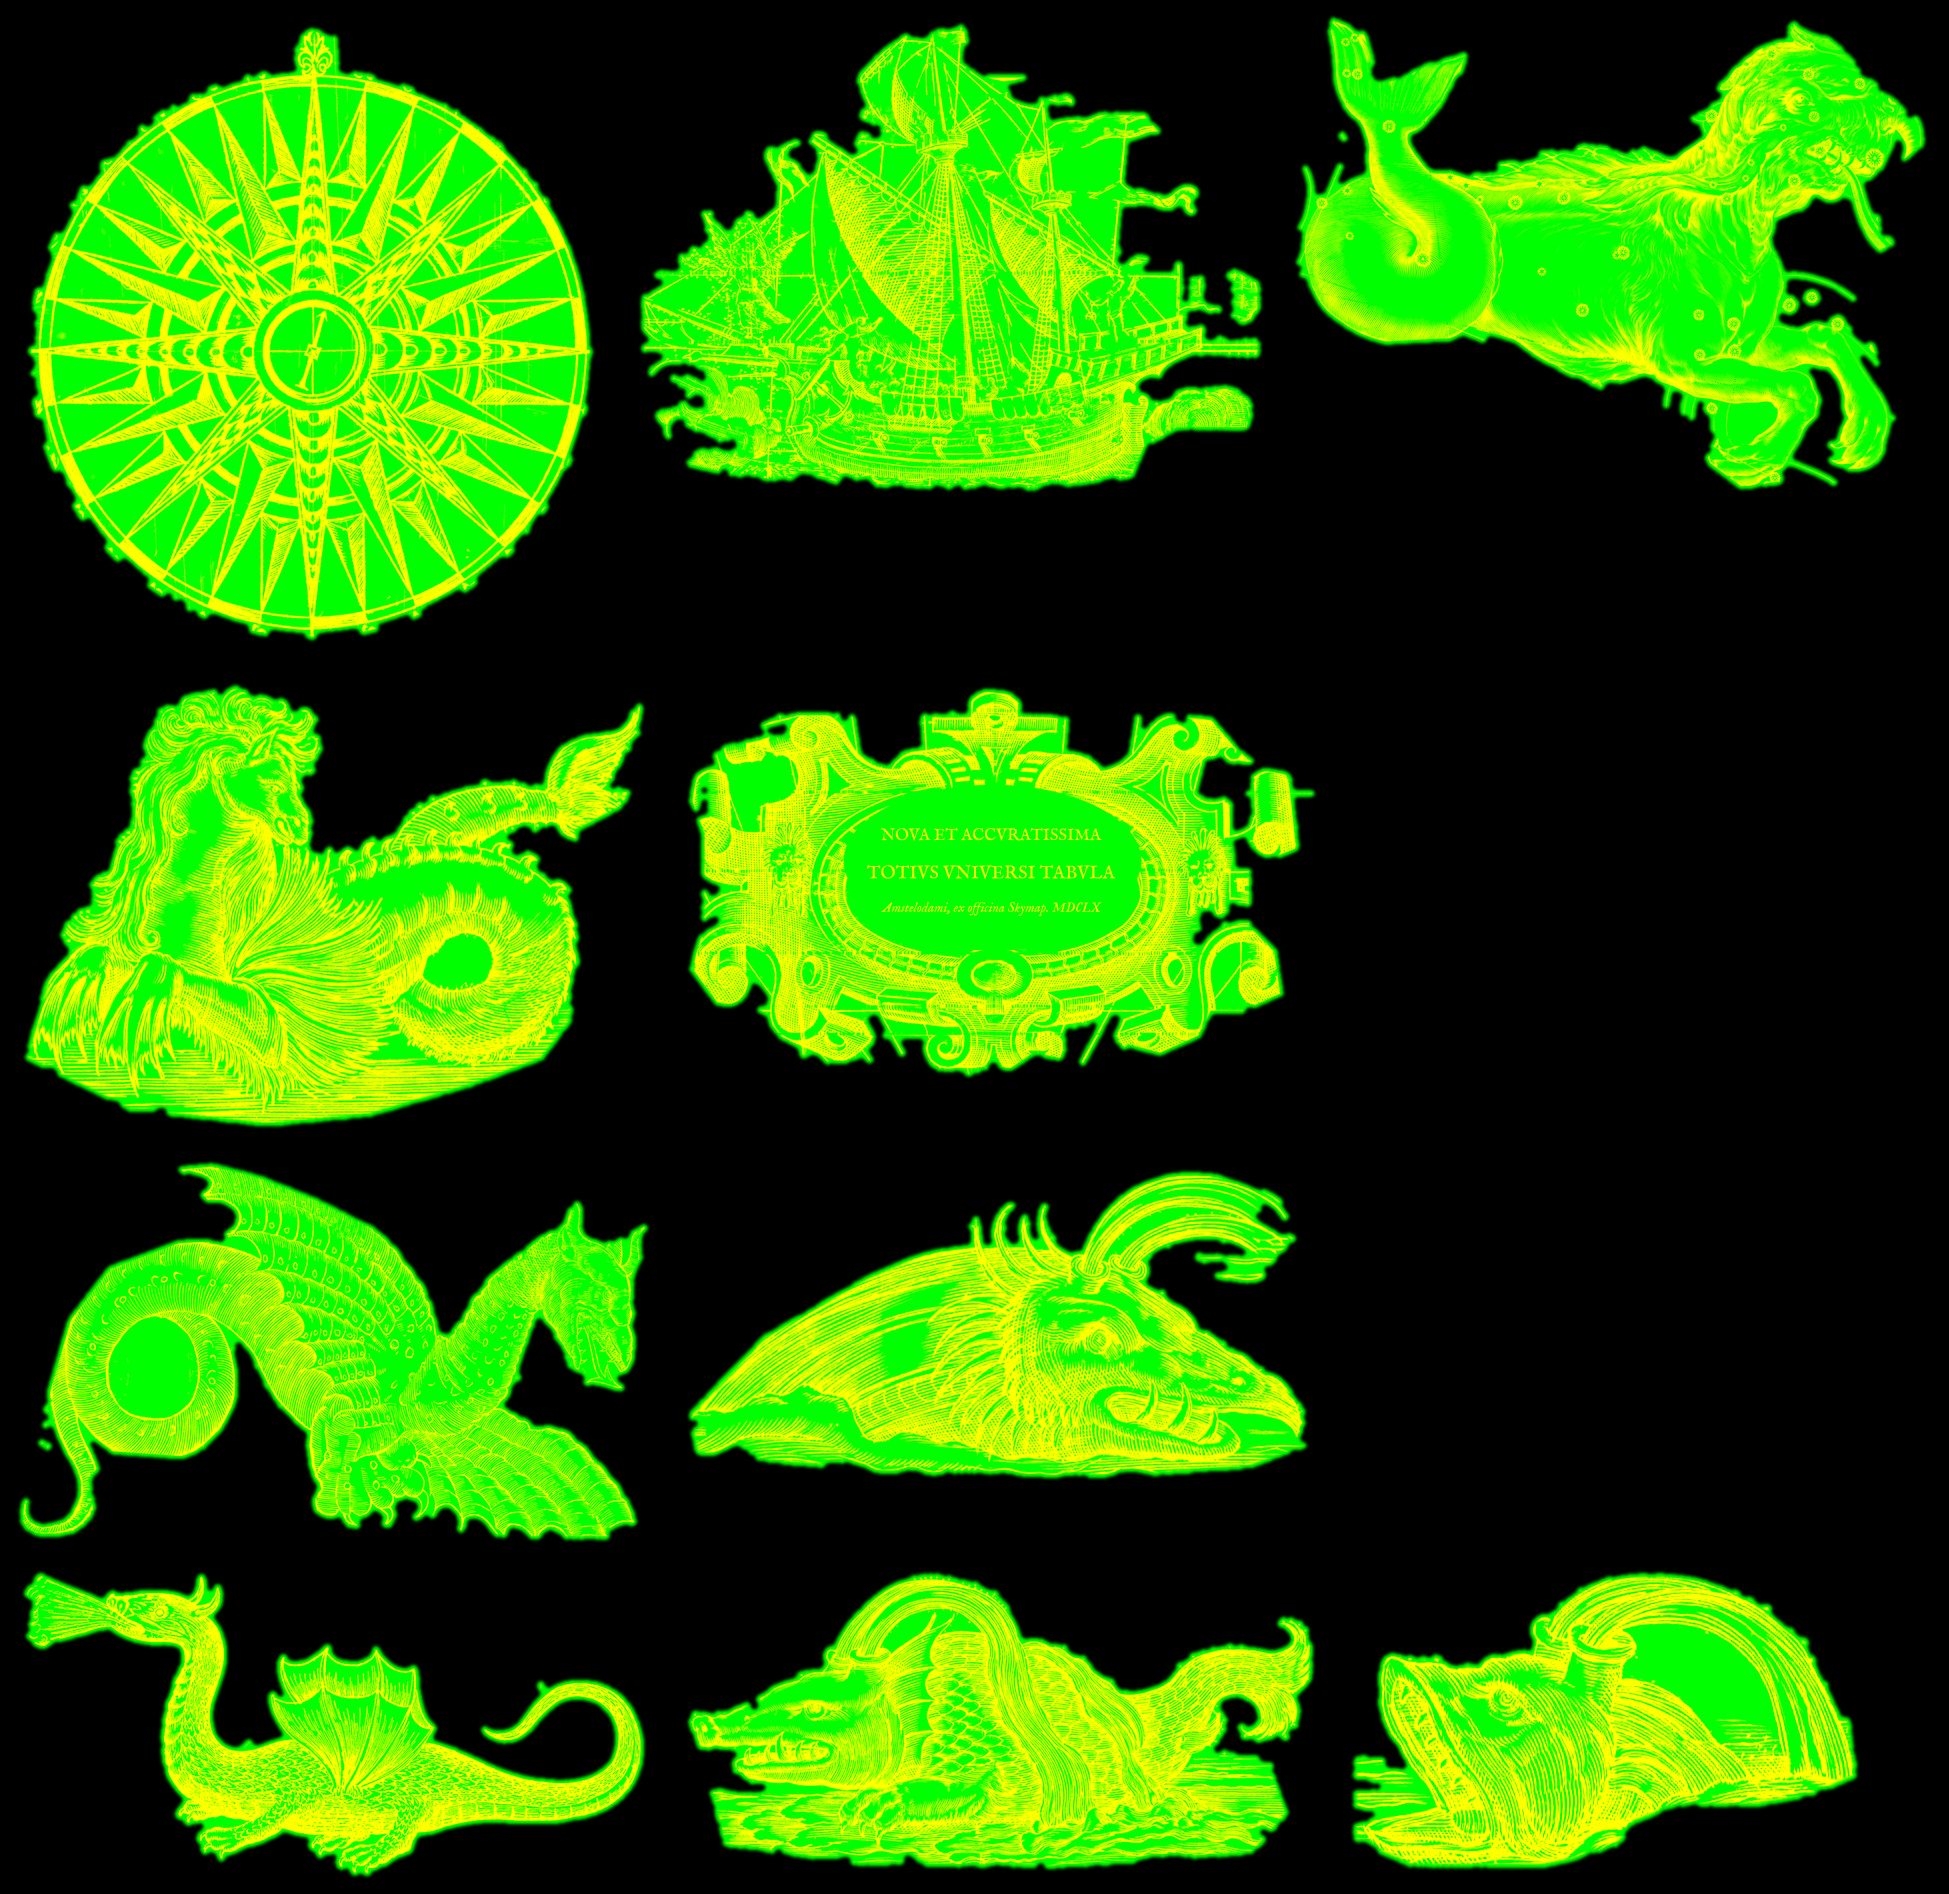
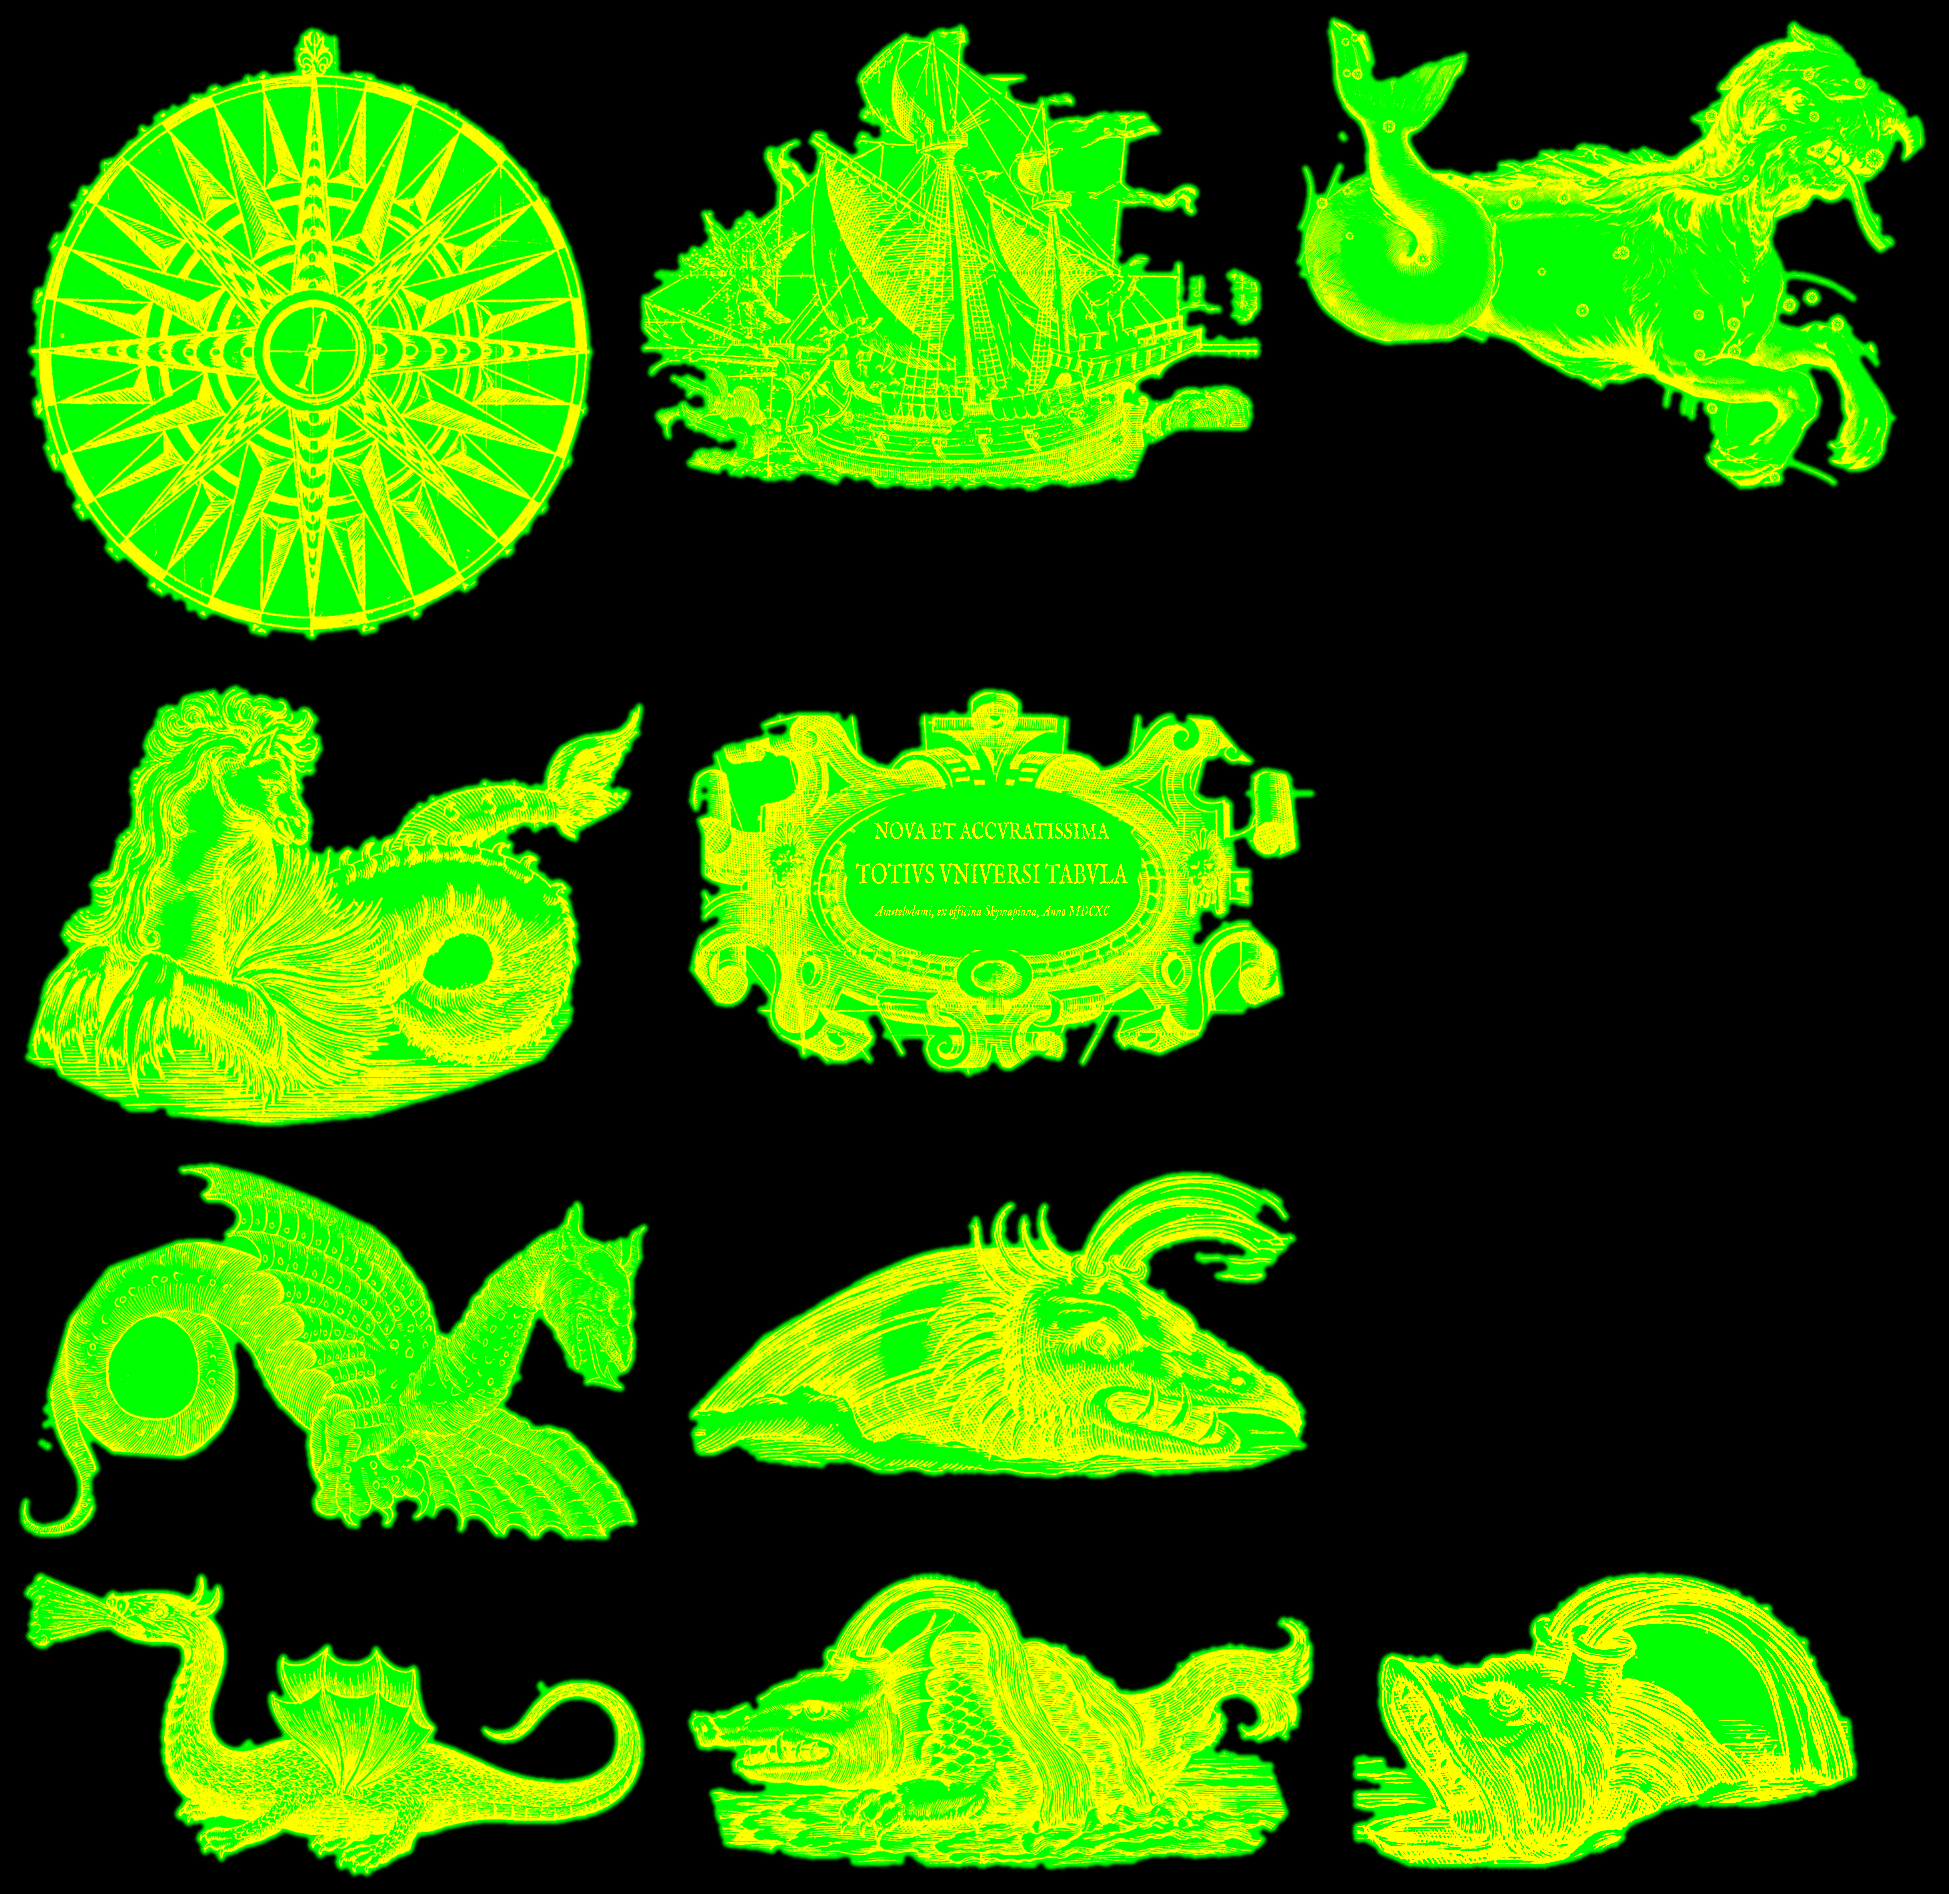
Antique look: fuller, crisper cartouche title and two-level ornament ink
The imprint now reads 'Amstelodami, ex officina Skymapiana, Anno MDCXC'
(1690, the year of the Hevelius Cetus). Title lines are sized by cap
height against the oval and condensed before they shrink, so the main
line's caps are ~1.5x taller; lettering is thresholded to pure ink.
Every sprite's ink gets a smoothstep(0.3, 0.65) push at source
resolution, before the downscale turns fine hatching into coverage
greys; the fill silhouette still reads the unpushed ink.

diff --git a/tools/antique/packOrnaments.ts b/tools/antique/packOrnaments.ts
@@ -16,6 +16,7 @@ import { fileURLToPath } from 'node:url';
 import { type Font, parse } from 'opentype.js';
 import sharp from 'sharp';
 
+import { smoothstep } from '../../src/utils/math/smoothstep';
 import type { GreyRaster } from '../@types/image/GreyRaster';
 import { closeMaskDisc } from '../utils/image/closeMaskDisc';
 import { dilateMaskDisc } from '../utils/image/dilateMaskDisc';
@@ -59,20 +60,47 @@ const FILL_BLUR_SIGMA_PX = 1.5;
 const CARTOUCHE_OVAL = { cx: 0.49, cy: 0.473, rx: 0.231, ry: 0.201 } as const;
 const ROMAN = 'IMFellEnglish-Regular.ttf';
 const ITALIC = 'IMFellEnglish-Italic.ttf';
+/**
+ * `capOfRy` is the cap height as a fraction of the oval's half-height. The oval
+ * is too narrow for caps that size at the face's own width, so a line may be
+ * condensed down to `minSqueeze` before it shrinks, as engravers cut it.
+ */
 const TITLE_LINES = [
-  { text: 'NOVA ET ACCVRATISSIMA', file: ROMAN, dy: -0.46, sizeOfRy: 0.2 },
-  { text: 'TOTIVS VNIVERSI TABVLA', file: ROMAN, dy: 0, sizeOfRy: 0.3 },
-  { text: 'Amstelodami, ex officina Skymap. MDCLX', file: ITALIC, dy: 0.46, sizeOfRy: 0.17 },
+  { text: 'NOVA ET ACCVRATISSIMA', file: ROMAN, dy: -0.5, capOfRy: 0.19, minSqueeze: 0.72 },
+  { text: 'TOTIVS VNIVERSI TABVLA', file: ROMAN, dy: 0.02, capOfRy: 0.26, minSqueeze: 0.72 },
+  {
+    text: 'Amstelodami, ex officina Skymapiana, Anno MDCXC',
+    file: ITALIC,
+    dy: 0.5,
+    capOfRy: 0.15,
+    minSqueeze: 0.8,
+  },
 ] as const;
-/** Fraction of the oval's chord a title line may span. */
-const TITLE_CHORD_FILL = 0.84;
+/** Fraction of the oval's chord a title line may span: keeps it inside the rule. */
+const TITLE_CHORD_FILL = 0.92;
+/** Ink-density band pushed to paper/ink, so scanned greys read as engraved lines. */
+const INK_PUSH = [0.3, 0.65] as const;
 
-async function loadInk(id: string): Promise<GreyRaster> {
-  const { data, info } = await sharp(`${ROOT}data/antique/sprites/${id}.png`)
+/**
+ * The sprite's ink density, scaled and padded; `push` maps it to two levels at
+ * the source's own resolution first: there a grey is a scan midtone, while after
+ * the downscale it is mostly a fine hatch line's coverage, which a push would erase.
+ */
+async function loadInk(id: string, push: boolean): Promise<GreyRaster> {
+  const src = await sharp(`${ROOT}data/antique/sprites/${id}.png`)
     .ensureAlpha()
-    .resize({ width: MAX_SIDE_PX, height: MAX_SIDE_PX, fit: 'inside', withoutEnlargement: true })
-    .extend({ top: PAD_PX, bottom: PAD_PX, left: PAD_PX, right: PAD_PX, background: '#0000' })
     .extractChannel(3)
+    .raw()
+    .toBuffer({ resolveWithObject: true });
+  const ink = push
+    ? src.data.map((v) => Math.round(smoothstep(INK_PUSH[0], INK_PUSH[1], v / 255) * 255))
+    : src.data;
+  const { data, info } = await sharp(ink, {
+    raw: { width: src.info.width, height: src.info.height, channels: 1 },
+  })
+    .resize({ width: MAX_SIDE_PX, height: MAX_SIDE_PX, fit: 'inside', withoutEnlargement: true })
+    .extend({ top: PAD_PX, bottom: PAD_PX, left: PAD_PX, right: PAD_PX, background: '#000' })
+    .extractChannel(0) // extend's colour background promotes the plane to sRGB
     .raw()
     .toBuffer({ resolveWithObject: true });
   return { data: new Uint8Array(data), width: info.width, height: info.height };
@@ -100,9 +128,15 @@ async function engraveTitle(ink: Uint8Array, w: number, h: number): Promise<void
       new Uint8Array(readFileSync(`${ROOT}data/antique/fonts/${line.file}`)).buffer,
     );
     const chord = 2 * rx * Math.sqrt(1 - line.dy * line.dy) * TITLE_CHORD_FILL;
+    const cap = face.getPath('H', 0, 0, 1).getBoundingBox();
     const { x1, x2 } = face.getPath(line.text, 0, 0, 1).getBoundingBox();
-    const sizePx = Math.min(line.sizeOfRy * 2 * ry, chord / (x2 - x1));
-    const glyphs = await rasterizeLine(face, line.text, sizePx);
+    let sizePx = (line.capOfRy * ry) / (cap.y2 - cap.y1);
+    let squeeze = Math.min(1, chord / ((x2 - x1) * sizePx));
+    if (squeeze < line.minSqueeze) {
+      squeeze = line.minSqueeze;
+      sizePx = chord / ((x2 - x1) * squeeze);
+    }
+    const glyphs = await rasterizeLine(face, line.text, sizePx, squeeze);
     const x0 = Math.round(PAD_PX + CARTOUCHE_OVAL.cx * iw - glyphs.width / 2);
     const y0 = Math.round(PAD_PX + CARTOUCHE_OVAL.cy * ih + line.dy * ry - glyphs.height / 2);
     for (let y = 0; y < glyphs.height; y++)
@@ -114,30 +148,38 @@ async function engraveTitle(ink: Uint8Array, w: number, h: number): Promise<void
 }
 
 /**
- * One line of text as coverage, `sizePx` the em size, cropped to its ink box.
- * Drawn from the font's outlines rather than sharp's `text` input: on macOS
- * that goes through CoreText, which ignores `fontfile` and falls back to sans.
+ * One line of text as two-level ink (engraved, no grey), `sizePx` the em size,
+ * condensed by `squeeze`, cropped to its ink box. Drawn from the font's outlines
+ * rather than sharp's `text` input: on macOS that goes through CoreText, which
+ * ignores `fontfile` and falls back to sans.
  */
-async function rasterizeLine(face: Font, text: string, sizePx: number): Promise<GreyRaster> {
+async function rasterizeLine(
+  face: Font,
+  text: string,
+  sizePx: number,
+  squeeze: number,
+): Promise<GreyRaster> {
   const path = face.getPath(text, 0, 0, sizePx);
   const { x1, y1, x2, y2 } = path.getBoundingBox();
-  const width = Math.ceil(x2 - x1);
+  const width = Math.ceil((x2 - x1) * squeeze);
   const height = Math.ceil(y2 - y1);
-  const svg = `<svg xmlns="http://www.w3.org/2000/svg" width="${width}" height="${height}" viewBox="${x1} ${y1} ${width} ${height}"><path d="${path.toPathData(3)}"/></svg>`;
+  const svg = `<svg xmlns="http://www.w3.org/2000/svg" width="${width}" height="${height}"><path transform="scale(${squeeze} 1) translate(${-x1} ${-y1})" d="${path.toPathData(3)}"/></svg>`;
   const { data } = await sharp(Buffer.from(svg))
     .ensureAlpha()
     .extractChannel(3)
     .raw()
     .toBuffer({ resolveWithObject: true });
-  return { data: new Uint8Array(data), width, height };
+  return { data: Uint8Array.from(data, (v) => (v >= 110 ? 255 : 0)), width, height };
 }
 
 async function buildSprite(id: string): Promise<OrnamentSprite> {
-  const { data: ink, width: w, height: h } = await loadInk(id);
+  const { data: ink, width: w, height: h } = await loadInk(id, true);
   if (id === 'cartouche') await engraveTitle(ink, w, h);
+  // The silhouette reads the unpushed ink: faint wave and hatch lines still hold it together.
+  const { data: density } = await loadInk(id, false);
   const solid = fillMaskHoles(
     closeMaskDisc(
-      ink.map((v) => (v > INK_THRESHOLD ? 1 : 0)),
+      density.map((v) => (v > INK_THRESHOLD ? 1 : 0)),
       w,
       h,
       CLOSE_RADIUS_PX,
